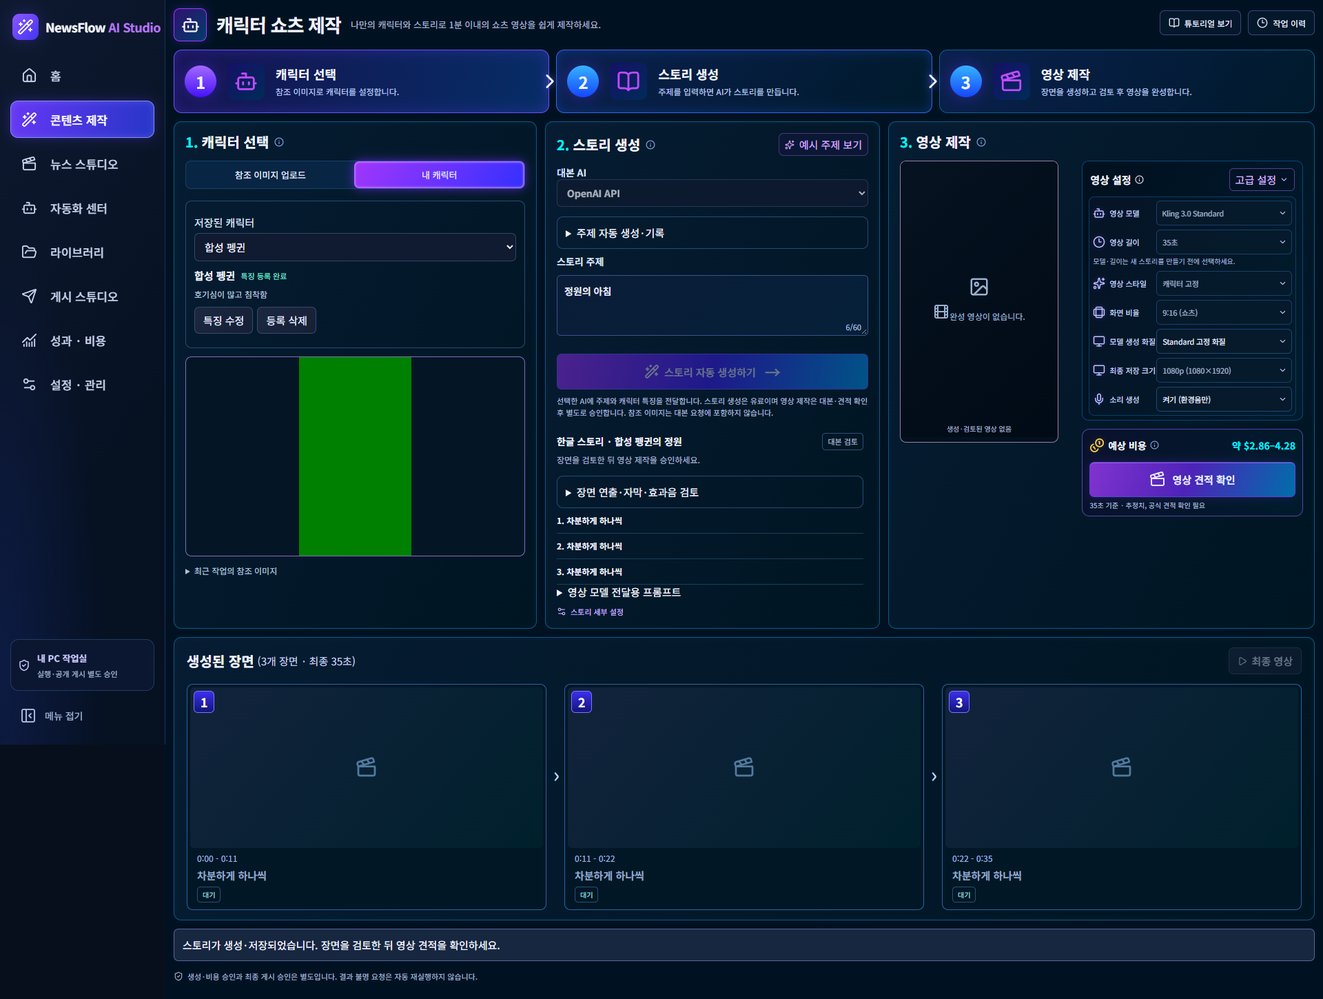
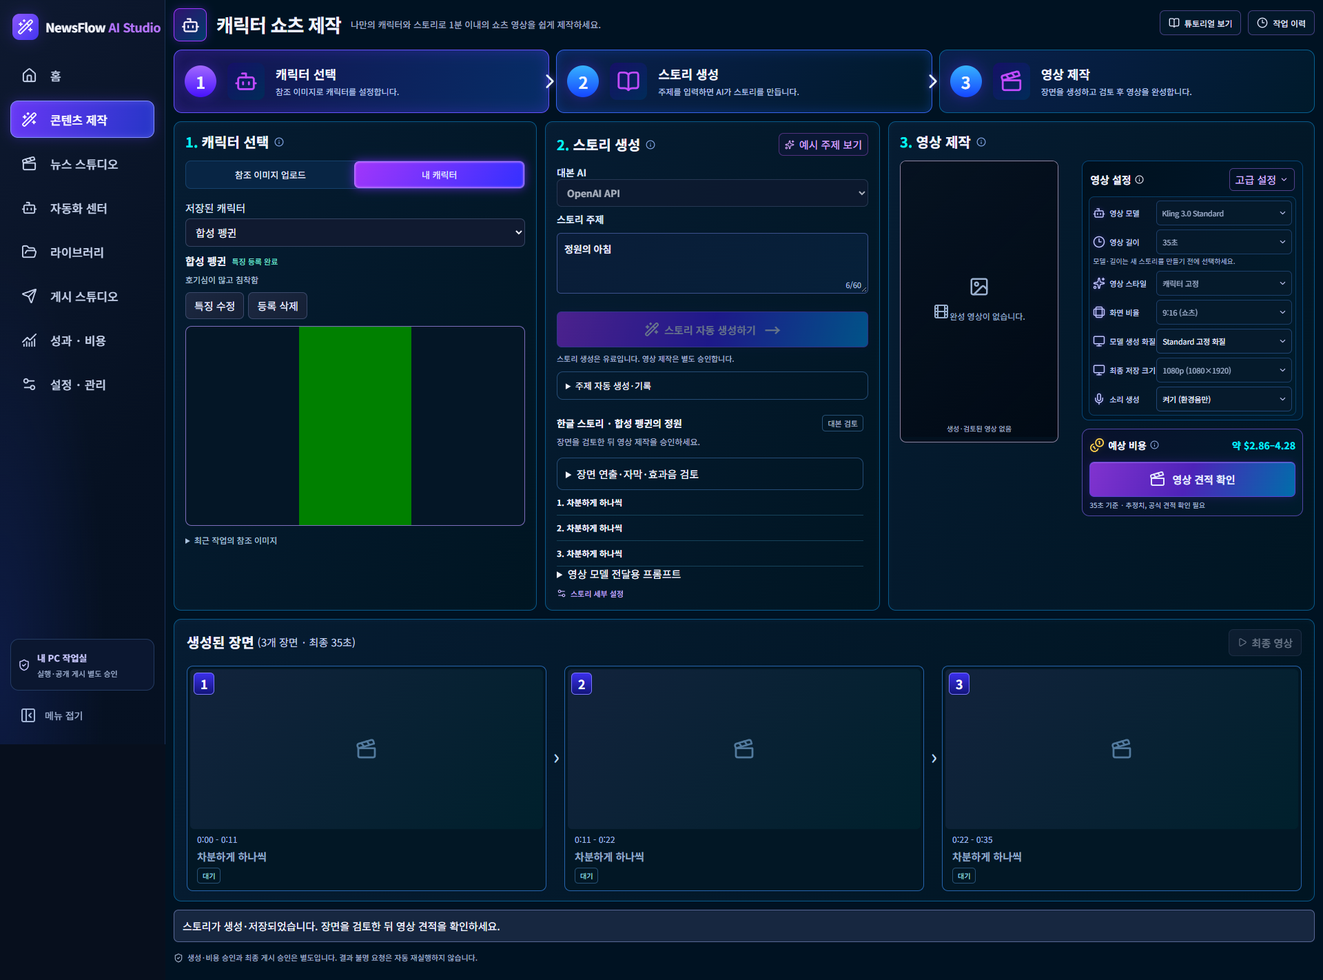
Refine character registration and story controls with visible failures

diff --git a/newsflow-ai/frontend/src/studio/core/CharacterAutomation.tsx b/newsflow-ai/frontend/src/studio/core/CharacterAutomation.tsx
@@ -82,7 +82,11 @@ export function CharacterProfiles({ profiles, selected, onSelect, ensureAsset, m
           { asset: reference, profile: JSON.stringify(draft), identifier: record?.id ?? "", revision: String(record?.revision ?? 0) });
         setEditing(false); onSelect(row); await onRefresh();
       }
-    } catch (e) { setError(e instanceof Error ? e.message : "캐릭터 정보를 확인하세요."); }
+    } catch (e) {
+      const message=e instanceof Error ? e.message : "캐릭터 정보를 확인하세요.";
+      const generic=message.startsWith('입력·저장 상태')||message.startsWith('저장 상태를 확인')||message.startsWith('이미지 분석을 완료하지 못했습니다');
+      setError(kind==='analyze'?`특징 초안을 만들지 못했습니다.${generic?'':` ${message}`}`:message);
+    }
     finally { sending.current = false; setBusy(false); onBusy(false); }
   }
   return <section className="character-profile-editor" aria-label="캐릭터 선택과 특징">
@@ -104,7 +108,6 @@ export function CharacterProfiles({ profiles, selected, onSelect, ensureAsset, m
       <div className="character-profile-actions"><button type="button" disabled={disabled||busy} onClick={()=>begin(selected)}>특징 수정</button>
         <button type="button" disabled={disabled||busy} onClick={()=>setConfirmDelete(true)}>등록 삭제</button></div>
     </>:<>
-      <p className="character-profile-hint">{hasReference?'이미지를 선택했습니다. 이름과 특징을 등록하면 주제·스토리에 사용할 수 있습니다.':mode==='mine'?'저장된 캐릭터를 선택하거나 참조 이미지를 업로드하세요.':'참조 이미지를 업로드한 뒤 캐릭터 이름과 특징을 등록하세요.'}</p>
       <button type="button" data-character-profile-focus disabled={disabled||busy||!hasReference} onClick={()=>begin(null)}>{mode==='mine'?'이 이미지로 캐릭터 등록':'새 캐릭터 등록'}</button>
     </>}
     {confirmDelete&&<CharacterModal title="캐릭터 등록 삭제" busy={busy} onClose={()=>setConfirmDelete(false)} footer={<>
@@ -113,6 +116,7 @@ export function CharacterProfiles({ profiles, selected, onSelect, ensureAsset, m
       <p>등록만 삭제합니다. 이전 작업·이미지·영상·비용 기록은 보존됩니다.</p>{error&&<p role="alert">{error}</p>}
     </CharacterModal>}
     {editing&&<CharacterModal title={record?'캐릭터 특징 수정':'새 캐릭터 등록'} busy={busy} onClose={()=>setEditing(false)} footer={<>
+      {error&&<p role="alert" className="character-modal-feedback">{error}</p>}
       <button type="button" disabled={busy} onClick={()=>setEditing(false)}>취소</button>
       <button type="submit" form={formId} disabled={disabled||busy} className="primary">{busy?'처리 중…':'캐릭터 저장'}</button></>}>
       <form id={formId} ref={form} className="character-profile-form" onSubmit={e=>{e.preventDefault();void act('save');}}>
@@ -142,10 +146,9 @@ export function CharacterProfiles({ profiles, selected, onSelect, ensureAsset, m
             <button type="button" onClick={()=>setDraft(v=>({...v,supporting_cast:v.supporting_cast.filter((_,i)=>i!==index)}))}>조연 제거</button></div>)}
           <button type="button" disabled={draft.supporting_cast.length>=3} onClick={()=>setDraft(v=>({...v,supporting_cast:[...v.supporting_cast,{id:'',appearance:''}]}))}>조연 설명 추가</button>
         </fieldset></details>
-        {error&&<p role="alert" className="character-profile-error">{error}</p>}{busy&&<p role="status">처리 중…</p>}
+        {busy&&<p role="status">처리 중…</p>}
       </form>
     </CharacterModal>}
-    {!editing&&!confirmDelete&&error&&<p role="alert">{error}</p>}
   </section>;
 }
 export function CharacterTopics({ profile, model, available, topic, onTopic, csrf, disabled, settings, episodeLimit, jobs, onRefresh, onJob, onBusy }: {
@@ -217,10 +220,12 @@ export function CharacterTopics({ profile, model, available, topic, onTopic, csr
   }
   return <details className="character-topic-tools"><summary>주제 자동 생성·기록</summary>
     <fieldset disabled={disabled || busy || !profile}>
-      <label>주제 개수<input type="number" min={1} max={50} value={count} onChange={e=>setCount(Number(e.target.value))} /></label>
+      <div className="character-topic-create">
+        <label>주제 개수<input type="number" min={1} max={50} value={count} onChange={e=>setCount(Number(e.target.value))} /></label>
+        <button disabled={!consent || !available} onClick={()=>void act("generate")}>주제 자동 생성</button>
+      </div>
       <label className="check"><input type="checkbox" checked={consent} onChange={e=>setConsent(e.target.checked)} />주제 생성 유료 요청에 동의합니다.</label>
-      <button disabled={!consent || !available} onClick={()=>void act("generate")}>주제 자동 생성</button>
-      <button disabled={!topic.trim()} onClick={()=>void act("manual")}>입력한 주제 저장</button>
+      <button className="character-topic-save" disabled={!topic.trim()} onClick={()=>void act("manual")}>입력한 주제 저장</button>
       <div className="character-topic-list">{rows.map(row=><div key={row.id}>
         <label className="check"><input type="checkbox" aria-label={`${row.topic} 대기열 선택`} checked={selectedTopics.includes(row.id)}
           onChange={e=>setSelectedTopics(v=>e.target.checked?[...v,row.id]:v.filter(id=>id!==row.id))} />
@@ -230,10 +235,9 @@ export function CharacterTopics({ profile, model, available, topic, onTopic, csr
         </select>
       </div>)}</div>
       <details className="character-batch"><summary>선택 주제 일괄 제작 ({selectedTopics.length}개)</summary>
-        <p>선택한 회차 한도 합계: US${(Number(episodeLimit||0)*selectedTopics.length).toFixed(2)} · 대본·영상 포함 상한이며 실제 청구액은 아닙니다.</p>
-        <p>대본부터 순서대로 생성합니다. 각 대본을 검토하고 공식 견적을 받은 후 영상 제작을 별도로 승인합니다.</p>
+        <p>편당 한도 US${episodeLimit} · 선택한 {selectedTopics.length}편 상한 US${(Number(episodeLimit||0)*selectedTopics.length).toFixed(2)}</p>
         <label className="check"><input type="checkbox" checked={scriptConsent} onChange={e=>setScriptConsent(e.target.checked)} />
-          선택한 {selectedTopics.length}편의 대본 유료 생성에 동의합니다. 요청별 AI 한도와 편당 영상 한도 ${episodeLimit}를 유지합니다.</label>
+          선택한 {selectedTopics.length}편의 유료 대본 생성에 동의합니다.</label>
         <button disabled={!scriptConsent||!available||!selectedTopics.length} onClick={()=>void batch("scripts")}>선택한 주제 대본 생성</button>
         <label>저장된 대기열<select value={queue?.id??""} onChange={e=>{if(e.target.value)void batch("read",e.target.value);}}>
           <option value="">대기열 선택</option>{queues.filter(q=>q.character_id===profile?.id).map(q=><option key={q.id} value={q.id}>{q.created_at??q.id} · {q.rows?.length??0}편</option>)}
@@ -248,7 +252,7 @@ export function CharacterTopics({ profile, model, available, topic, onTopic, csr
           <small>실패·결과 불명에서 중단합니다. 완료 장면을 다시 요청하지 않으며 최종 합성은 별도 검토 후 실행합니다.</small>
         </div>}
       </details>
-      <details><summary>CSV 주제 가져오기</summary><label>번호, 카테고리, 주제<textarea value={csv} maxLength={48000} onChange={e=>setCsv(e.target.value)} /></label>
+      <details className="character-topic-import"><summary>CSV 주제 가져오기</summary><label>번호, 카테고리, 주제<textarea value={csv} maxLength={48000} onChange={e=>setCsv(e.target.value)} /></label>
         <button disabled={!csv.trim()} onClick={()=>void act("import")}>CSV 가져오기</button></details>
     </fieldset>
     {!profile && <small>등록된 캐릭터를 먼저 선택하세요.</small>}

diff --git a/newsflow-ai/frontend/src/studio/core/character-studio.css b/newsflow-ai/frontend/src/studio/core/character-studio.css
@@ -1112,7 +1112,7 @@
 }
 
 /* Character profiles, topics and editing stay inside the approved three panels. */
-.core-studio[data-module="characters"] .character-profile-editor, .core-studio[data-module="characters"] .character-topic-tools,
+.core-studio[data-module="characters"] .character-topic-tools,
 .core-studio[data-module="characters"] .character-script-editor { margin-top: 14px; padding: 12px; border: 1px solid #254c76; border-radius: 9px; min-width: 0; }
 .core-studio[data-module="characters"] .character-profile-editor fieldset, .core-studio[data-module="characters"] .character-topic-tools fieldset,
 .core-studio[data-module="characters"] .character-script-editor fieldset { border: 0; margin: 0; padding: 8px 0; display: grid; gap: 10px; min-width: 0; }
@@ -1153,8 +1153,9 @@
 .core-studio[data-module="characters"] .character-modal-head h2 { margin: 0; font-size: 20px; line-height: 1.4; }
 .core-studio[data-module="characters"] .character-modal-head button { min-width: 38px; min-height: 38px; padding: 4px; font-size: 25px; }
 .core-studio[data-module="characters"] .character-modal-body { overflow: auto; overscroll-behavior: contain; padding: 18px 20px; min-height: 0; }
-.core-studio[data-module="characters"] .character-modal-footer { justify-content: flex-end; border-top: 1px solid #274362; background: #0b1b30; }
+.core-studio[data-module="characters"] .character-modal-footer { justify-content: flex-end; flex-wrap: wrap; border-top: 1px solid #274362; background: #0b1b30; }
 .core-studio[data-module="characters"] .character-modal-footer button { min-height: 40px; padding-inline: 20px; }
+.core-studio[data-module="characters"] .character-modal-feedback { flex-basis: 100%; margin: 0; padding: 10px 12px; border: 1px solid #b5627d; border-radius: 7px; color: #ffd1dc; background: #432137; font-size: 13px; line-height: 1.5; overflow-wrap: anywhere; max-height: 160px; overflow: auto; }
 .core-studio[data-module="characters"] .character-profile-form { display: grid; gap: 16px; }
 .core-studio[data-module="characters"] .character-profile-form > p { margin: 0; color: #b1c6e0; font-size: 13px; }
 .core-studio[data-module="characters"] .character-profile-form .character-profile-fields { display: grid; grid-template-columns: repeat(2, minmax(0, 1fr)); gap: 14px 18px; padding: 0; }
@@ -1172,7 +1173,7 @@
 .core-studio[data-module="characters"] .character-profile-summary > span { color: #7ce3d3; font-size: 11px; }
 .core-studio[data-module="characters"] .character-profile-summary > p { flex-basis: 100%; margin: 0; font-size: 12px; color: #b5c7df; display: -webkit-box; -webkit-line-clamp: 2; -webkit-box-orient: vertical; overflow: hidden; }
 .core-studio[data-module="characters"] .character-profile-hint { color: #a9c2df; line-height: 1.5; font-size: 12px; margin: 0 0 10px; }
-.core-studio[data-module="characters"] .character-profile-editor { margin: 0 0 12px; }
+.core-studio[data-module="characters"] .character-profile-editor { margin: 0 0 10px; min-width: 0; }
 .core-studio[data-module="characters"] .character-profile-error { color: #ffb8b8; overflow-wrap: anywhere; }
 .core-studio[data-module="characters"] .character-reference-large { display: flex; justify-content: center; }
 .core-studio[data-module="characters"] .character-reference-large > img, .core-studio[data-module="characters"] .character-reference-large > canvas { max-width: 100%; max-height: 65dvh; width: auto; object-fit: contain; }
@@ -1188,3 +1189,23 @@
   .core-studio[data-module="characters"] .character-profile-form .character-profile-fields { grid-template-columns: minmax(0, 1fr); }
   .core-studio[data-module="characters"] .character-profile-wide { grid-column: auto; }
 }
+
+/* Keep checkboxes native and compact; generic text-input sizing must not apply. */
+.core-studio[data-module="characters"] .check { display: flex; flex-direction: row; align-items: center; gap: 8px; }
+.core-studio[data-module="characters"] input[type="checkbox"] { appearance: auto; width: 18px; height: 18px; min-width: 18px; min-height: 18px; flex: 0 0 18px; padding: 0; margin: 2px 0; align-self: flex-start; }
+.core-studio[data-module="characters"] .character-reference-store { margin: 10px 0 0; font-size: 12px; }
+.core-studio[data-module="characters"] .character-profile-editor > button { width: auto; padding: 8px 14px; min-height: 36px; }
+.core-studio[data-module="characters"] .character-topic-tools { margin: 10px 0 12px; padding: 10px 12px; }
+.core-studio[data-module="characters"] .character-topic-tools > summary { cursor: pointer; font-size: 13px; }
+.core-studio[data-module="characters"] .character-topic-tools > fieldset { gap: 10px; padding: 12px 0 0; }
+.core-studio[data-module="characters"] .character-topic-create { display: flex; align-items: end; gap: 10px; flex-wrap: wrap; }
+.core-studio[data-module="characters"] .character-topic-create label { display: flex; flex-direction: row; align-items: center; gap: 8px; margin: 0; font-size: 12px; }
+.core-studio[data-module="characters"] .character-topic-create input { width: 68px; min-width: 68px; padding: 7px; }
+.core-studio[data-module="characters"] .character-topic-tools button { min-height: 34px; padding: 7px 10px; font-size: 12px; }
+.core-studio[data-module="characters"] .character-topic-tools .check { margin: 0; font-size: 12px; font-weight: 400; }
+.core-studio[data-module="characters"] .character-topic-save { justify-self: start; }
+.core-studio[data-module="characters"] .character-topic-list:empty { display: none; }
+.core-studio[data-module="characters"] .character-batch, .core-studio[data-module="characters"] .character-topic-import { padding-top: 8px; border-top: 1px solid #29425d; }
+.core-studio[data-module="characters"] .character-batch > summary, .core-studio[data-module="characters"] .character-topic-import > summary { font-size: 12px; color: #b9cce5; cursor: pointer; }
+.core-studio[data-module="characters"] .character-batch > p { font-size: 12px; line-height: 1.5; }
+.core-studio[data-module="characters"] .character-topic-import textarea { min-height: 90px; }

diff --git a/newsflow-ai/frontend/src/studio/core/CharacterStudio.tsx b/newsflow-ai/frontend/src/studio/core/CharacterStudio.tsx
@@ -751,7 +751,7 @@ export default function CharacterStudio({ c }: { c: Controller }) {
       if (!response.ok || !/^studio-[a-f0-9]{64}\.png$/.test(data.id ?? ""))
         throw Error(typeof data.detail === "string" ? data.detail : "캐릭터를 저장하지 못했습니다. 이미지와 저장 공간을 확인하세요.");
       setAsset(data.id);
-      setLibraryMessage(data.created ? "참조 이미지를 보관했습니다. 특징을 등록하면 내 캐릭터로 사용할 수 있습니다." : "이미 보관된 참조 이미지입니다.");
+      setLibraryMessage(data.created ? "참조 이미지를 보관했습니다." : "이미 보관된 참조 이미지입니다.");
       try {
         await c.load();
       } catch {
@@ -1262,7 +1262,7 @@ export default function CharacterStudio({ c }: { c: Controller }) {
                   hidden
                   onChange={(e) => selectFile(e.target.files?.[0])}
                 />
-                <label className="check">
+                <label className="check character-reference-store">
                   <input
                     type="checkbox"
                     checked={saveToLibrary}
@@ -1275,7 +1275,6 @@ export default function CharacterStudio({ c }: { c: Controller }) {
                   />
                   참조 이미지 보관
                 </label>
-                <small>이미지만 보관합니다. 이름과 특징은 캐릭터 등록에서 저장하세요.</small>
                 {libraryBusy && <small role="status">캐릭터 저장 중…</small>}
                 {libraryMessage && <small role="status">{libraryMessage}</small>}
 
@@ -1398,10 +1397,6 @@ export default function CharacterStudio({ c }: { c: Controller }) {
                 {apiProviders.map(p => <option key={p.id} value={p.id} disabled={!p.configured}>{p.label}{p.configured ? "" : " · 키 등록 필요"}</option>)}
               </select>
             </label>
-            <CharacterTopics onBusy={setAutomationBusy} profile={activeProfile} model={settings.script_model} available={scriptAvailable}
-              topic={topic} onTopic={setTopic} csrf={c.view?.csrfToken ?? ""} disabled={isBusy}
-              settings={settings} episodeLimit={per} jobs={jobs} onRefresh={c.load}
-              onJob={(identifier) => { setId(identifier); setFile(null); setAsset(""); setReferenceJob(""); }} />
             <label>
               스토리 주제
               <div className="kling-character-topic">
@@ -1454,10 +1449,11 @@ export default function CharacterStudio({ c }: { c: Controller }) {
               </div>
             )}
 
-            <p className="kling-character-consent">
-              선택한 AI에 주제와 캐릭터 특징을 전달합니다. 스토리 생성은 유료이며 영상 제작은
-              대본·견적 확인 후 별도로 승인합니다. 참조 이미지는 대본 요청에 포함하지 않습니다.
-            </p>
+            <p className="kling-character-consent">스토리 생성은 유료입니다. 영상 제작은 별도 승인합니다.</p>
+            <CharacterTopics onBusy={setAutomationBusy} profile={activeProfile} model={settings.script_model} available={scriptAvailable}
+              topic={topic} onTopic={setTopic} csrf={c.view?.csrfToken ?? ""} disabled={isBusy}
+              settings={settings} episodeLimit={per} jobs={jobs} onRefresh={c.load}
+              onJob={(identifier) => { setId(identifier); setFile(null); setAsset(""); setReferenceJob(""); }} />
             {!ready && (
               <p role="status">
                 새 제작실 API 연결 확인 전 · 생성할 수 없습니다.

diff --git a/newsflow-ai/tests/test_character_automation_browser.py b/newsflow-ai/tests/test_character_automation_browser.py
@@ -2,6 +2,7 @@
 import os
 from pathlib import Path
 from types import SimpleNamespace
+import pytest
 from playwright.sync_api import expect
 from test_model_picker_browser import browser
 from test_cloud_workspace_flow import local_server
@@ -191,4 +192,89 @@ def test_saved_image_is_not_profile_until_registered_and_profile_edit_is_local(a
         assert updated['revision']==saved['revision']+1 and updated['personality']=='조용하지만 호기심이 많은 성격'
         assert updated['asset']==saved['asset'] and state.image_studio.asset(image_row['id']).read_bytes()
         assert len(registry.list())==1 and not state.character.listing()
+        context.close()
+
+
+@pytest.mark.parametrize('failure_kind,detail', [
+    ('generic', '입력·저장 상태·API 승인 한도를 확인하세요. 결과가 불명확하면 자동 재요청하지 않습니다.'),
+    ('schema', '외형 설명: 글자 수 초과'),
+])
+def test_analysis_failure_is_visible_in_modal_footer_and_preserves_draft(app,browser,tmp_path,failure_kind,detail):
+    from urllib.parse import parse_qs
+    attempts=[]
+    class Key:
+        def status(self):return {'configured':True}
+        def key(self):raise AssertionError('No real keys')
+    app.state.api_keys={'claude_api':Key()}
+    def fail_analysis(route):
+        assert route.request.method=='POST'
+        attempts.append(parse_qs(route.request.post_data))
+        route.fulfill(status=409,json={'detail':detail})
+    with local_server(app) as origin:
+        context=browser.new_context(viewport={'width':1366,'height':768})
+        context.route('**/*',lambda route:route.continue_() if route.request.url.startswith(origin+'/') else route.abort())
+        context.route('**/api/studio/characters/profiles/analyze',fail_analysis)
+        page=context.new_page();page.goto(origin+'/studio/characters')
+        page.get_by_label('캐릭터 참조 이미지 업로드',exact=True).set_input_files({'name':'synthetic.png','mimeType':'image/png','buffer':image()})
+        page.get_by_role('button',name='새 캐릭터 등록',exact=True).click()
+        dialog=page.get_by_role('dialog',name='새 캐릭터 등록',exact=True)
+        dialog.get_by_role('textbox',name='캐릭터 이름',exact=True).fill('보존할 합성 캐릭터')
+        dialog.get_by_role('textbox',name='성격',exact=True).fill('천천히 주변을 살펴보는 성격')
+        dialog.get_by_text('AI로 특징 초안 만들기 · 선택 사항',exact=True).click()
+        dialog.get_by_label('선택한 AI에 참조 이미지를 전송하는 유료 분석에 동의합니다.',exact=True).check()
+        dialog.get_by_role('button',name='이미지로 특징 초안 만들기',exact=True).click()
+        alert=dialog.get_by_role('alert')
+        expect(alert).to_have_text('특징 초안을 만들지 못했습니다.'+(' 외형 설명: 글자 수 초과' if failure_kind=='schema' else ''))
+        dialog.locator('.character-modal-body').evaluate('(e)=>e.scrollTop=0')
+        expect(alert).to_be_in_viewport()
+        expect(dialog.locator('.character-modal-footer').get_by_role('alert')).to_have_count(1)
+        expect(dialog.get_by_role('button',name='취소',exact=True)).to_be_enabled()
+        expect(dialog.get_by_role('textbox',name='캐릭터 이름',exact=True)).to_have_value('보존할 합성 캐릭터')
+        expect(dialog.get_by_role('textbox',name='성격',exact=True)).to_have_value('천천히 주변을 살펴보는 성격')
+        assert len(attempts)==1 and attempts[0]['consent']==['true']
+        assert not CharacterRegistry(app.state.config.data_dir,app.state.image_studio).list()
+        out=CAPTURE_DIR or tmp_path/'captures';out.mkdir(parents=True,exist_ok=True)
+        page.screenshot(path=str(out/f'character-analysis-failure-{failure_kind}-1366x768.png'))
+        context.close()
+
+
+def test_compact_reference_and_topic_controls_preserve_explicit_actions(app,browser,tmp_path):
+    registry=CharacterRegistry(app.state.config.data_dir,app.state.image_studio)
+    saved=registry.save(profile('합성 토끼','rabbit'),app.state.image_studio.asset_bytes(image()))
+    with local_server(app) as origin:
+        context=browser.new_context(viewport={'width':1366,'height':768})
+        context.route('**/*',lambda route:route.continue_() if route.request.url.startswith(origin+'/') else route.abort())
+        page=context.new_page();posts=[];page.on('request',lambda r:posts.append(r.url) if r.method=='POST' else None)
+        page.goto(origin+'/studio/characters')
+        page.get_by_label('캐릭터 참조 이미지 업로드',exact=True).set_input_files({'name':'synthetic.png','mimeType':'image/png','buffer':image()})
+        expect(page.get_by_role('button',name='새 캐릭터 등록',exact=True)).to_be_enabled()
+        expect(page.get_by_text('이미지를 선택했습니다. 이름과 특징을 등록하면 주제·스토리에 사용할 수 있습니다.',exact=True)).to_have_count(0)
+        expect(page.get_by_text('이미지만 보관합니다. 이름과 특징은 캐릭터 등록에서 저장하세요.',exact=True)).to_have_count(0)
+        checkbox=page.get_by_label('참조 이미지 보관',exact=True)
+        box=checkbox.bounding_box();assert box and box['width']<=20 and box['height']<=20
+        assert checkbox.locator('..').evaluate('(e)=>getComputedStyle(e).flexDirection')=='row'
+        panel=page.locator('.character-profile-editor')
+        assert panel.evaluate('(e)=>getComputedStyle(e).borderTopWidth')=='0px'
+        out=CAPTURE_DIR or tmp_path/'captures';out.mkdir(parents=True,exist_ok=True)
+        page.screenshot(path=str(out/'character-reference-compact-1366x768.png'))
+        page.get_by_role('button',name='내 캐릭터',exact=True).click()
+        page.get_by_label('저장된 캐릭터',exact=True).select_option('profile:'+saved['id'])
+        page.get_by_label('스토리 주제',exact=True).fill('정원의 느긋한 아침')
+        tools=page.locator('.character-topic-tools')
+        assert tools.evaluate('(e)=>e.open') is False
+        assert page.get_by_label('스토리 주제',exact=True).bounding_box()['y']<tools.bounding_box()['y']
+        page.get_by_text('주제 자동 생성·기록',exact=True).click()
+        consent=page.get_by_label('주제 생성 유료 요청에 동의합니다.',exact=True)
+        box=consent.bounding_box();assert box and box['width']<=20 and box['height']<=20
+        assert consent.locator('..').evaluate('(e)=>getComputedStyle(e).flexDirection')=='row'
+        assert page.get_by_label('주제 개수',exact=True).bounding_box()['width']<=90
+        assert tools.locator('.character-batch').evaluate('(e)=>e.open') is False
+        assert tools.locator('.character-topic-import').evaluate('(e)=>e.open') is False
+        expect(page.get_by_role('button',name='입력한 주제 저장',exact=True)).to_be_enabled()
+        expect(page.get_by_role('button',name='주제 자동 생성',exact=True)).to_be_disabled()
+        for width,height in ((1920,1080),(1366,768)):
+            page.set_viewport_size({'width':width,'height':height})
+            assert page.evaluate('document.documentElement.scrollWidth<=innerWidth')
+            page.screenshot(path=str(out/f'character-topic-compact-{width}x{height}.png'),full_page=True)
+        assert not posts and len(registry.list())==1
         context.close()
